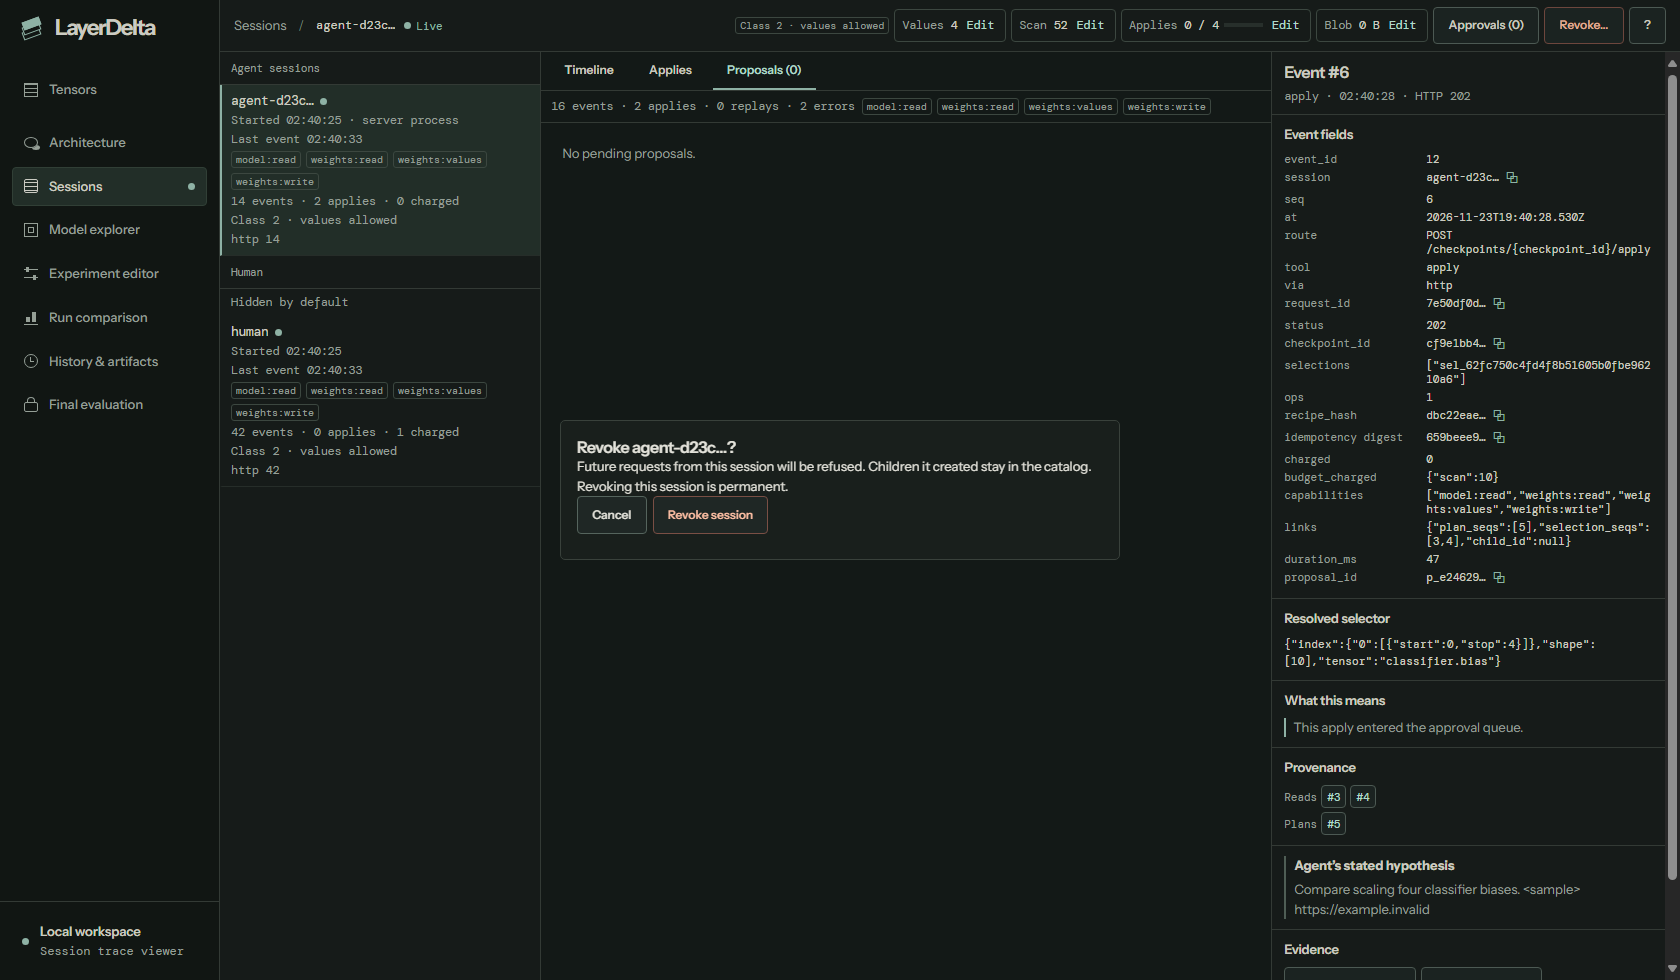
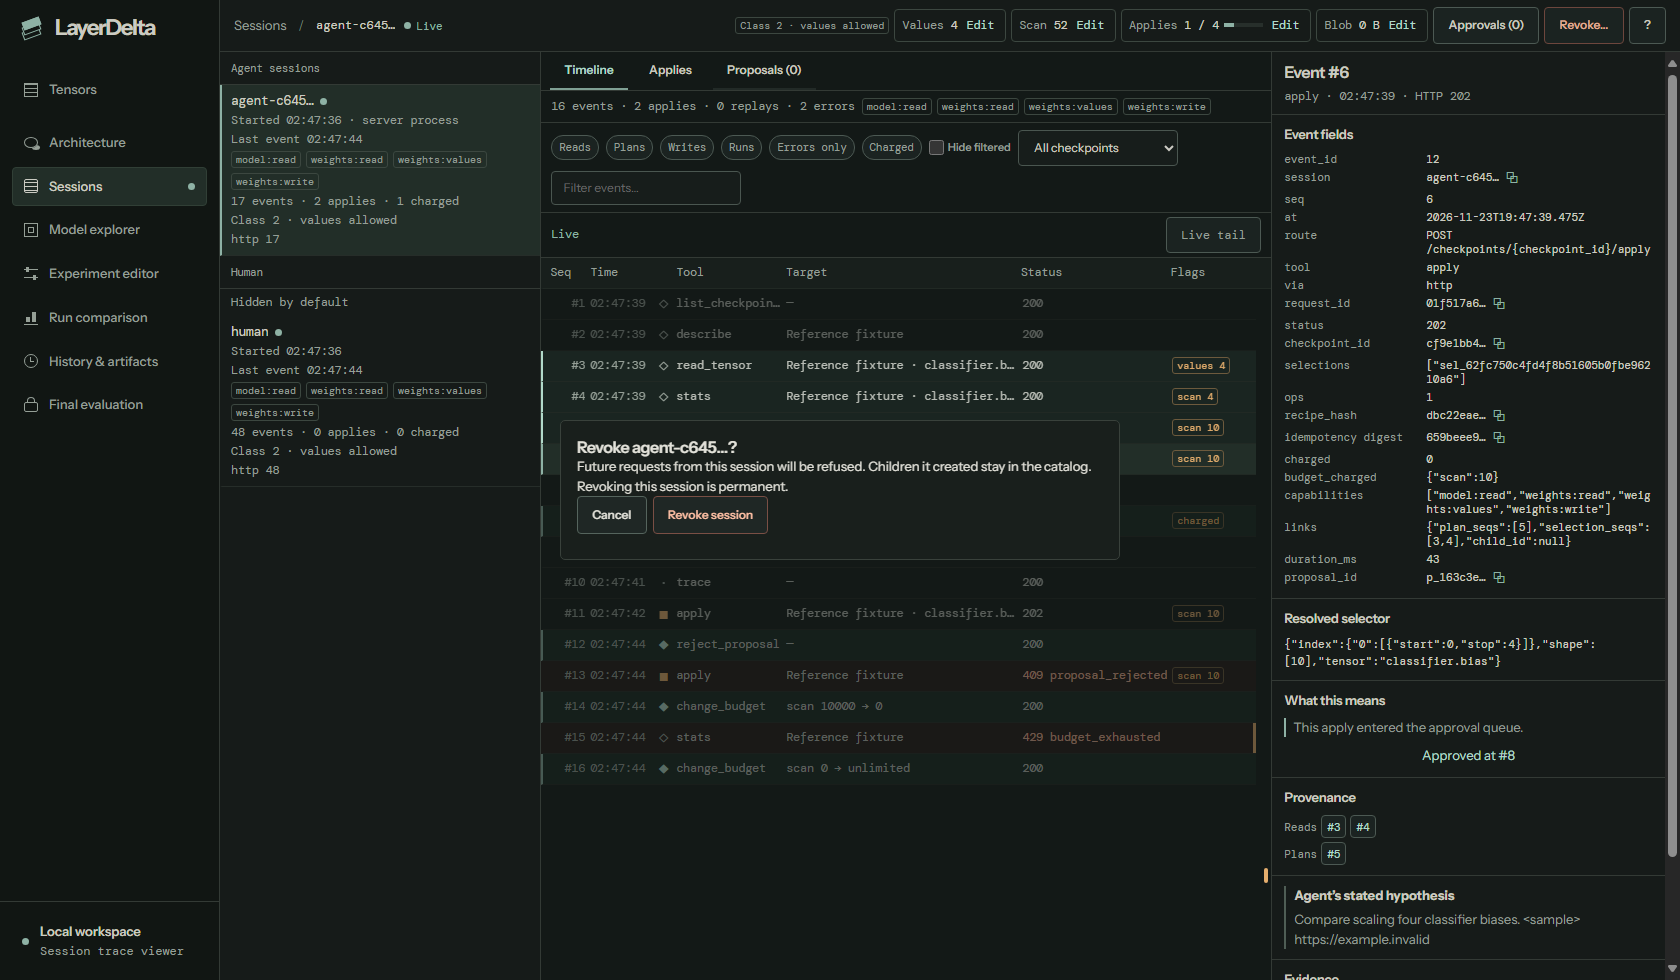
Show recorded proposal outcomes and refresh live captures

diff --git a/desktop/src/SessionTraceViewer.tsx b/desktop/src/SessionTraceViewer.tsx
@@ -30,6 +30,7 @@ function Failure({error, retry, stale}: {error: TraceFailure; retry: () => void;
   </div>;
 }
 const egressLabels = ["Class 0 · metadata only", "Class 1 · stats only", "Class 2 · values allowed"];
+const egressTitles = ["Only metadata can leave the machine", "Statistics can leave the machine", "Tensor values can leave the machine"];
 
 function SessionList({rows, active, select, discovery, loadMore, now}: {rows: SessionRow[]; active: string; select: (id: string) => void;
   discovery: boolean; loadMore?: () => void; now: number}) {
@@ -141,6 +142,8 @@ function SessionBody({source, session, actions, following, setFollowing, now, re
   const events = feed.events;
   const summary = feed.summary;
   const selectedEvent = events.find(event => event.seq === selected);
+  const decision = selectedEvent?.status === 202 && selectedEvent.proposal_id ? events.find(event =>
+    event.control?.proposal_id === selectedEvent.proposal_id && (event.control?.action === "approve" || event.control?.action === "reject")) : undefined;
   const scopedSignal = useRef<AbortController>(null);
 
   useEffect(() => {
@@ -243,7 +246,7 @@ function SessionBody({source, session, actions, following, setFollowing, now, re
     <header className="tv-context context-bar"><div className="context-title">Sessions <b>/</b><strong title={sessionId}>{shortId(sessionId)}</strong></div>
       {liveSession(session, now) && <span className="tv-live-pill"><i className="tv-live-dot"/>Live</span>}
       <div className="tv-context-meters">
-        {session.egress_class !== null && <span className="tv-flag">
+        {session.egress_class !== null && <span className="tv-flag" title={egressTitles[session.egress_class]}>
           {egressLabels[session.egress_class]}</span>}
         {session.kind === "agent" && (summary?.budget ? dimensions.map(dimension => {
           const budget = summary.budget?.[dimension], seq = budgetEvent(dimension);
@@ -282,7 +285,7 @@ function SessionBody({source, session, actions, following, setFollowing, now, re
         canApprove={canSupervise} preview={source.controls?.preview}
         decide={source.controls ? (id, decision) => {setConfirm({kind: "proposal", id, decision}); setControlError("");} : undefined}/>}
     </section>
-    <TraceInspector key={selected ?? "empty"} event={selectedEvent} origin={events.find(event => event.seq === selectedEvent?.links?.proposal_seq)}
+    <TraceInspector key={selected ?? "empty"} event={selectedEvent} decision={decision} origin={events.find(event => event.seq === selectedEvent?.links?.proposal_seq)}
       review={selectedEvent?.proposal_id && queue?.some(item => item.proposal_id === selectedEvent.proposal_id) ? () => setView("Proposals") : undefined}
       session={session} requested={selected} more={feed.more} load={feed.load} {...evidence}/>
     {confirm && <TraceDialog title={confirm.kind === "revoke" ? "Revoke " + shortId(sessionId) + "?" :

diff --git a/desktop/src/TraceInspector.tsx b/desktop/src/TraceInspector.tsx
@@ -40,8 +40,8 @@ function Hypothesis({recipe}: {recipe?: TraceRecipe}) {
 }
 const titleFor = (id: string, names: Map<string, string>) => names.get(id) ?? shortId(id);
 
-export function TraceInspector({event, origin, review, session, requested, more, load, ...evidence}: Evidence & {
-  event?: TraceEvent; origin?: TraceEvent; review?: () => void; session: SessionRow; requested?: number; more: boolean; load: () => void;
+export function TraceInspector({event, origin, decision, review, session, requested, more, load, ...evidence}: Evidence & {
+  event?: TraceEvent; origin?: TraceEvent; decision?: TraceEvent; review?: () => void; session: SessionRow; requested?: number; more: boolean; load: () => void;
 }) {
   const [copied, setCopied] = useState("");
   const [actionError, setActionError] = useState("");
@@ -65,7 +65,9 @@ export function TraceInspector({event, origin, review, session, requested, more,
         })}
       </dl><span className="visually-hidden" role="status">{copied}</span></section>
       {selector && <section className="tv-section"><h3>Resolved selector</h3><code>{JSON.stringify(selector)}</code></section>}
-      {summary && <section className="tv-section"><h3>What this means</h3><p className="tv-meaning" data-error={failed(event)}>{summary}</p></section>}
+      {summary && <section className="tv-section"><h3>What this means</h3><p className="tv-meaning" data-error={failed(event)}>{summary}</p>
+        {decision && <button className="tv-text-button" type="button" onClick={() => evidence.jump(decision.seq)}>
+          {decision.control?.action === "approve" ? "Approved" : "Rejected"} at #{decision.seq}</button>}</section>}
       {(event.links || event.replay_of !== null) && <section className="tv-section"><h3>Provenance</h3><Links event={event} jump={evidence.jump}/></section>}
       {recipe?.hypothesis && <section className="tv-section"><Hypothesis recipe={recipe}/></section>}
       <section className="tv-section">

diff --git a/desktop/src/sessionTraceViewer.css b/desktop/src/sessionTraceViewer.css
@@ -126,7 +126,7 @@
   border: 1px solid var(--tv-line); border-radius: 5px; padding: 16px}
 .tv-dialog > * {margin: 0 0 9px}
 .tv-dialog > button {margin-right: 6px}
-.tv-dialog label {display: flex; gap: 7px; align-items: center}
+.tv-dialog label {display: flex; gap: 7px; align-items: center; white-space: nowrap}
 .tv-failure {display: flex; flex-wrap: wrap; align-items: center; gap: 5px 9px; padding: 7px 9px; border-left: 2px solid var(--tv-bad); color: var(--tv-bad); overflow-wrap: anywhere}
 .tv-empty,.tv-blank,.tv-unselected {padding: 11px}
 .tv-unselected {gap: 6px}
